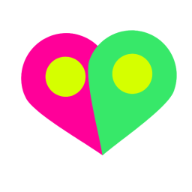
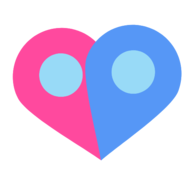
updated colors

diff --git a/index.html b/index.html
@@ -18,10 +18,17 @@
         /* Set font to Roboto */
         body {
             font-family: 'Roboto', sans-serif;
+            color: #010400; /* Set font color to #010400 */
+        }
+
+        body .container a {
+            color: #5697f6; /* Replace #yourDefaultColor with your chosen color for links */
+            font-weight: bold;
         }
 
         body .container a:hover {
-            color: #ff0099;
+            color: #82c7f6;
+            font-weight: bold;
         }
 
         /* Adjust form input width on mobile */
@@ -53,7 +60,7 @@
     height="0" width="0" style="display:none;visibility:hidden"></iframe></noscript>
     <!-- End Google Tag Manager (noscript) -->
     <div class="container text-center">
-        <img src="/seniorcaremap.gif" alt="Logo" class="img-fluid" style="margin-top: 100px; margin-bottom: 10px;">
+        <img src="/SeniorCareMapLogo.png" alt="Logo" class="img-fluid" style="margin-top: 100px; margin-bottom: 10px;">
         <p class="vertical-spacing">Growing older should be a celebration ☀ of a life well lived 🤝 which fuels the great experiences 😊 that lie ahead. SeniorCareMap makes it easy to find the right senior care so you can focus on celebrating life's next journey.</p>
         
         <div class="text-center vertical-spacing">
@@ -67,7 +74,7 @@
                     <label for="message">What can SeniorCareMap do to help life's next journey easier?</label>
                     <textarea class="form-control" id="message" name="message" placeholder="Things like: help me find the right senior care facility, a care giver to come to my home, or anything else 🪄"></textarea>
                 </div>
-                <button type="submit" class="btn btn-primary" style="background-color: #38e869; color: black; border-color: #d9d9d9;">👉🏽 Get Early Access</button>
+                <button type="submit" class="btn btn-primary" style="background-color: #98daf7; color: #010400; border-color: #d9d9d9;">👉🏽 Get Early Access</button>
             </form>
             <div id="success-message" style="display: none;">🙌🏾 Thank you! We will be in touch soon.</div>
             <!-- END: Formspree Form -->
